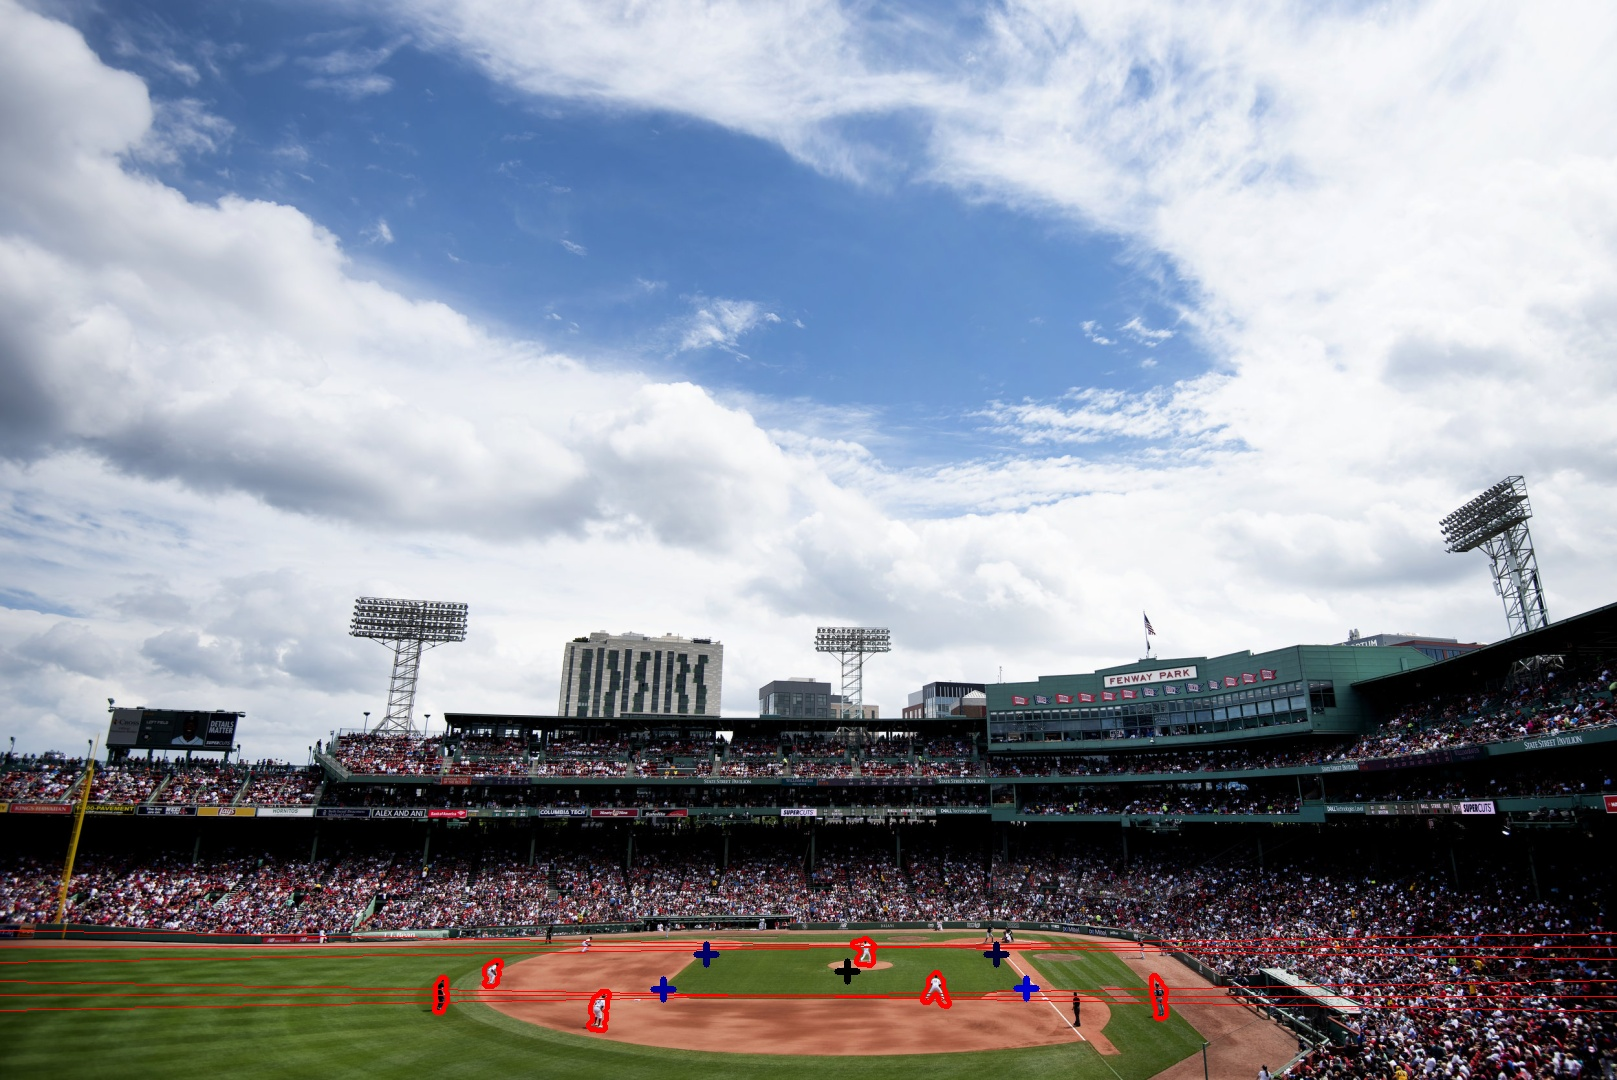
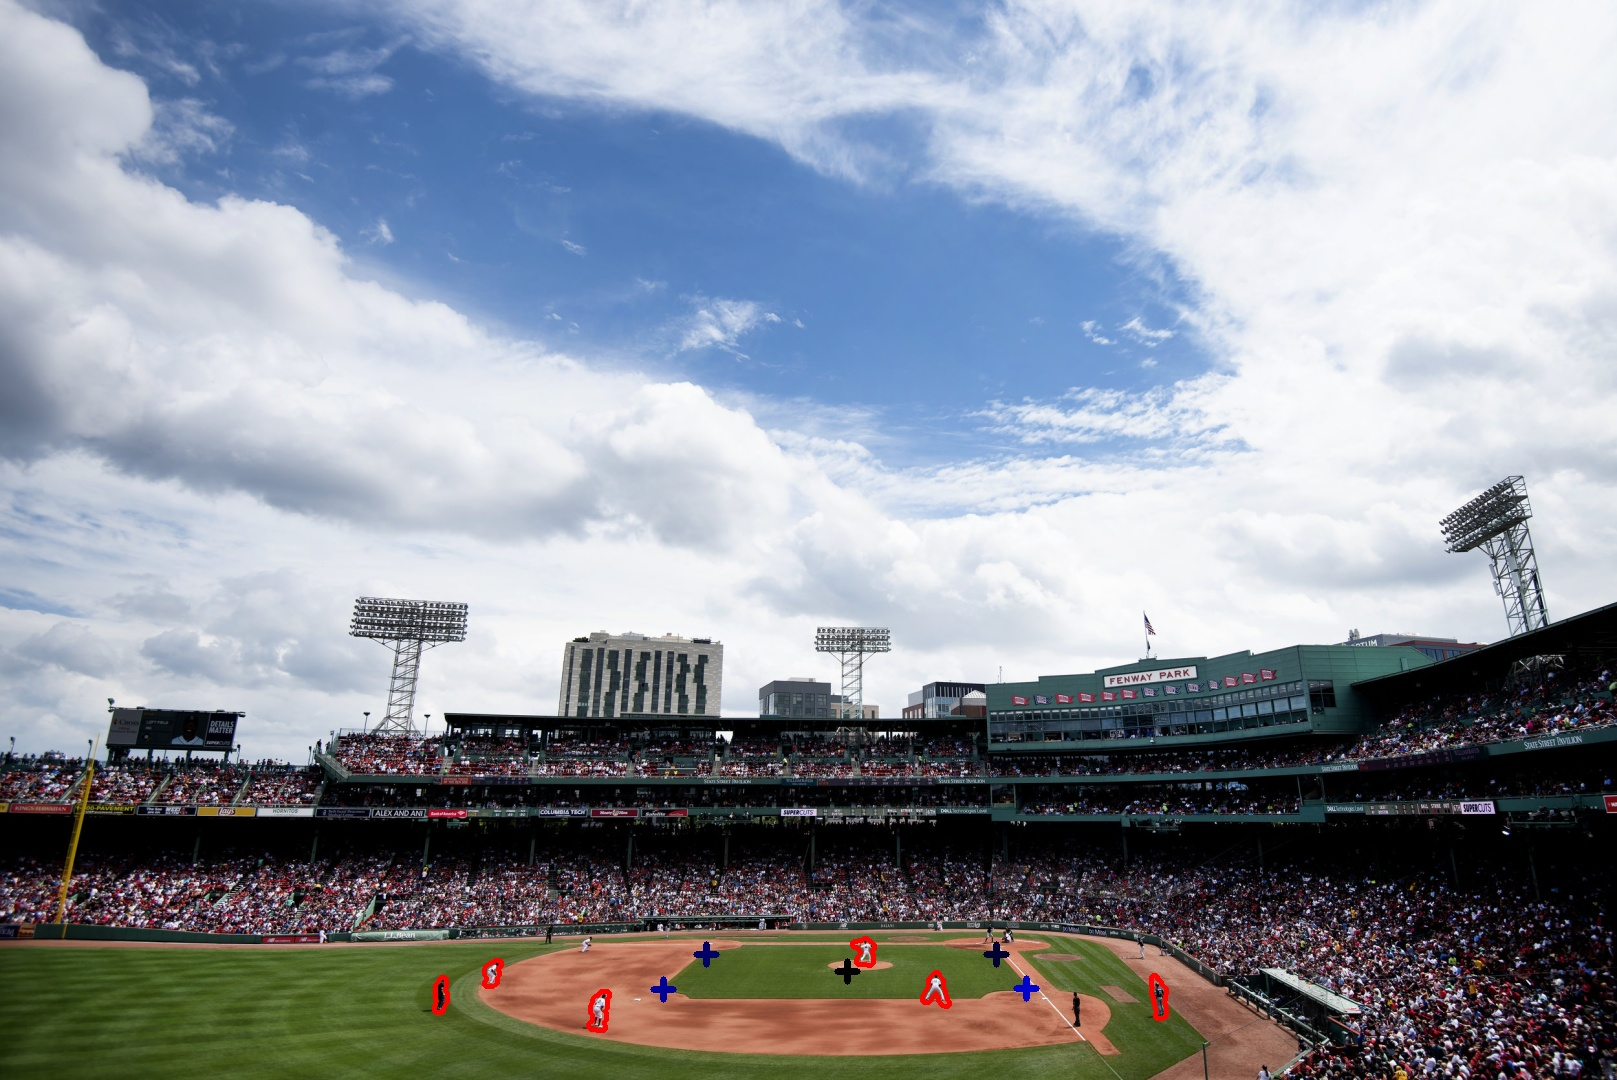
c++: add timer to time processing and finish player detection :-)

Changed region(s): [[0.0, 0.8556, 1.0, 0.9472]]

diff --git a/MLB_AR/ContentView.swift b/MLB_AR/ContentView.swift
@@ -9,7 +9,7 @@
 import SwiftUI
 
 struct ContentView: View {
-    @State var imageID = 2;
+    @State var imageID = 1
     
     var body: some View {
         ZStack {

diff --git a/MLB_AR/OpenCVWrapper/OpenCVWrapper.mm b/MLB_AR/OpenCVWrapper/OpenCVWrapper.mm
@@ -10,8 +10,44 @@
 #import "OpenCVWrapper.h"
 #import <opencv2/imgcodecs/ios.h>
 #import <UIKit/UIKit.h>
-
+#include <chrono>
+#include <ctime>
+#include <cmath>
 using namespace std;
+
+//Timer to time the image processing
+class Timer {
+    public:
+    void start() {
+        m_StartTime = chrono::system_clock::now();
+        m_bRunning = true;
+    }
+    
+    void stop() {
+        m_EndTime = chrono::system_clock::now();
+        m_bRunning = false;
+    }
+    
+    double elapsedMilliseconds() {
+        chrono::time_point<std::chrono::system_clock> endTime;
+        
+        if (m_bRunning) { endTime = chrono::system_clock::now(); }
+        else { endTime = m_EndTime; }
+        
+        return chrono::duration_cast<std::chrono::milliseconds>(endTime - m_StartTime).count();
+    }
+    
+    double elapsedSeconds() {
+        return elapsedMilliseconds() / 1000.0;
+    }
+
+    private:
+    chrono::time_point<std::chrono::system_clock> m_StartTime;
+    chrono::time_point<std::chrono::system_clock> m_EndTime;
+    bool m_bRunning = false;
+};
+
+Timer timer;
 
 @implementation OpenCVWrapper
 
@@ -20,9 +56,14 @@ using namespace std;
 }
 
 + (UIImage *)processImage:(UIImage *)image expectedHomePlateAngle:(double)expectedHomePlateAngle {
-    PlayerFinder finder = PlayerFinder();
-    return finder.processImage(image, expectedHomePlateAngle);
+    ImageProcessor processor = ImageProcessor();
+    UIImage* output = processor.processImage(image, expectedHomePlateAngle);
+    timer.stop();
+    cout << "Processing took " << timer.elapsedMilliseconds() << " milliseconds." << endl;
+    return output;
 }
+
+
 
 
 
@@ -53,11 +94,15 @@ bool sortByArea(const ContourInfo &struct1, const ContourInfo &struct2) {
 
 
 
-class PlayerFinder {
+
+
+
+//Class to run the image processing
+class ImageProcessor {
     public:
     cv::Scalar lowerGreen, upperGreen, lowerBrown, upperBrown, lowerDarkBrown, upperDarkBrown;
     
-    PlayerFinder() {
+    ImageProcessor() {
         lowerGreen = cv::Scalar(17, 50, 20);
         upperGreen = cv::Scalar(72, 255, 242);
         
@@ -68,16 +113,39 @@ class PlayerFinder {
         upperDarkBrown = cv::Scalar(10, 175, 150);
     }
     
-    UIImage* processImage(UIImage* image, double expectedHomePlateAngle) {
-        cv::Mat mat, hsv, greenMask, brownMask, darkBrownMask, fieldMask, erosion;
+    public: UIImage* processImage(UIImage* image, double expectedHomePlateAngle) {
+        /*
+         Main image processing routine
+        
+            1. Reset all central class variables to make sure the last image's processing data is cleared out
+            2. Convert color from BGR to HSV
+            3. Find all the pixels in the image that are a specific shade of green or brown to identify the field and dirt
+            4. Find the location of the bases
+            5. Find the location of the players
+            6. Calculate the ideal location of each of the players' positions
+            7. Assign each player an expected position
+            8. RETURN each players' bottom point and their corresponding position
+        */
+        
+        cv::Mat mat, resizedMat, hsv, greenMask, brownMask, darkBrownMask, fieldMask, erosion;
+        
+        UIImageToMat(image, mat);
+        
+        // Resize sample images to consistent height of 1080
+        // TODO: Remove this after algorithm testing is complete
+        int newHeight = 1080;
+        double scalePercent = newHeight / image.size.height;
+        int width = int(image.size.width * scalePercent);
+        cv::resize(mat, resizedMat, cv::Size(width, newHeight), 0, 0, cv::INTER_AREA);
+        
+        timer.start();      //NOTE: Start timer here because the image scaling takes a long time and won't be performed in the final product
         
         // Convert to HSV colorspace
-        UIImageToMat(image, mat);
-        cv::cvtColor(mat, hsv, cv::COLOR_RGB2HSV);
+        cv::cvtColor(resizedMat, hsv, cv::COLOR_RGB2HSV);
         
         // Green mask
         cv::inRange(hsv, lowerGreen, cv::Scalar(72, 255, 242), greenMask);
-        
+
         // Brown Mask
         cv::inRange(hsv, cv::Scalar(7, 80, 25), cv::Scalar(27, 255, 255), brownMask);
         
@@ -92,29 +160,41 @@ class PlayerFinder {
         vector<cv::Point> infieldContour = getPositionLocations(greenMask, expectedHomePlateAngle);
         
         // Get the location of each of the actual players on the field
-        getPlayerContourLocations(fieldMask);
+        vector<vector<cv::Point>> playerContours = getPlayerContourLocations(fieldMask);
         
-        vector<vector<cv::Point>> contoursToDraw;
-        contoursToDraw.push_back(infieldContour);
+        // Draw contours on image for DEBUG
+        playerContours.push_back(infieldContour);
+        cv::drawContours(resizedMat, playerContours, -1, cv::Scalar(255, 255, 0), 3);
         
-        cv::drawContours(mat, contoursToDraw, -1, cv::Scalar(255, 255, 0), 10);
-        
-        //Convert the Mat image to a UIImage
-        UIImage *result = MatToUIImage(mat);
+        // Convert the Mat image to a UIImage
+        UIImage *result = MatToUIImage(resizedMat);
         
         return result;
     }
     
-    vector<cv::Point> getPositionLocations(cv::Mat greenMask, double expectedHomePlateAngle) {
+    private: vector<cv::Point> getPositionLocations(cv::Mat greenMask, double expectedHomePlateAngle) {
+        /*
+         Sub-processing routine to find the location of each of the game positions
+
+            1. Erode the image to get rid of small impurities
+            2. Find all contours that are formed by the green mask
+            3. Choose the contours that are between a certain bounding box area
+            4. Choose the contours that have a certain (height/width) ratio, the smallest bounding box width, and an exact area above a certain threshold
+                    --> the expected infield outline
+            5. Fit a quadrilateral around the infield grass
+            6. Compute ideal position locations based on the infield corners
+            7. RETURN the image locations corresponding the positions in the following order:
+                    (pitcher, home, first, second, third, shortstop, left field, center field, right field)
+        */
+        
         cv::Mat erosion;
         
         // Erode the image to remove impurities
-        cv::erode(greenMask, erosion, getStructuringElement(cv::CHAIN_APPROX_SIMPLE, cv::Size(4, 4)));
-
+        cv::erode(greenMask, erosion, getStructuringElement(cv::MORPH_RECT, cv::Size(5, 4)));
         
         // Find all contours in the image
         vector<vector<cv::Point>> contours;     // contains the array of contours
-        vector<cv::Vec4i> hierarchy;            // don't actually use this at all
+        vector<cv::Vec4i> hierarchy;            // don't actually use this
         cv::findContours(erosion, contours, hierarchy, cv::RETR_TREE, cv::CHAIN_APPROX_SIMPLE);
                 
         // Only keep the contours which have a certain bounding box area
@@ -125,27 +205,21 @@ class PlayerFinder {
             double area = rect.height * rect.width;
             
             if (area > 18500 and area < 2000000) {
-                ContourInfo info;
-                info.contour = c;
-                info.x = rect.x;
-                info.y = rect.y;
-                info.width = rect.width;
-                info.height = rect.height;
-                infieldContours.push_back(info);
+                ContourInfo cnt;
+                cnt.contour = c;
+                cnt.x = rect.y + ( rect.width / 2);
+                cnt.y = rect.y + ( rect.height / 2);
+                cnt.width = rect.width;
+                cnt.height = rect.height;
+                infieldContours.push_back(cnt);
             }
         }
-        
-        ContourInfo infield = ContourInfo();
-        infield.x = -1;
         
         // Sort the list of contours from biggest area to smallest
         sort(infieldContours.begin(), infieldContours.end(), sortByArea);
         
-        // DEBUG
-        for (ContourInfo c : infieldContours) {
-            c.printDescription();
-        }
-        cout << "\n";
+        ContourInfo infield = ContourInfo();
+        infield.x = -1;
         
         for (ContourInfo cnt : infieldContours) {
             double ratio = cnt.height / cnt.width;
@@ -155,7 +229,7 @@ class PlayerFinder {
             }
         }
         
-        if (infield.x == -1) {  }
+        if (infield.x == -1) {  }       //TODO: indicate the infield was not found
         
         vector<cv::Point> infieldHull;
         cv::convexHull(infield.contour, infieldHull);
@@ -163,8 +237,103 @@ class PlayerFinder {
         return infieldHull;
     }
     
-    void getPlayerContourLocations(cv::Mat fieldMask) {
+    private: vector<vector<cv::Point>> getPlayerContourLocations(cv::Mat fieldMask) {
+        /*
+         Sub-processing routine to find the location of the players on the field
+
+            1. Erode the image to get rid of small impurities
+            2. Find all contours that are formed by the green and brown masks
+            3. Choose the contours that are between a certain bounding box area
+            4. Choose the contours that have a certain (height/width) ratio and actually are located on the field
+            5. RETURN an array of the players' center pixel location
+         */
         
+        cv::Mat erosion;
+        
+        // Erode the image to remove impurities
+        cv::erode(fieldMask, erosion, getStructuringElement(cv::MORPH_RECT, cv::Size(5, 5)));
+        
+        // Find all contours in the image
+        vector<vector<cv::Point>> contours;     // contains the array of contours
+        vector<cv::Vec4i> hierarchy;            // don't actually use this
+        cv::findContours(erosion, contours, hierarchy, cv::RETR_TREE, cv::CHAIN_APPROX_SIMPLE);
+        
+        // Only keep the contours which have a certain bounding box area
+        vector<ContourInfo> playerContours;
+        ContourInfo field = ContourInfo();
+        field.x = -1;                           // indicates that the variable is empty
+        
+        for (vector<cv::Point> c : contours) {
+            cv::Rect rect = cv::boundingRect(c);
+            double area = rect.height * rect.width;
+            
+            if (area > 270 and area < 2000) {
+                ContourInfo cnt;
+                cnt.contour = c;
+                cnt.x = rect.x + (rect.width / 2);
+                cnt.y = rect.y + ( rect.height / 2);
+                cnt.width = rect.width;
+                cnt.height = rect.height;
+                playerContours.push_back(cnt);
+            } else if (field.x == -1 or (field.width * field.height) < area) {
+                field.contour = c;
+                field.x = rect.x + (rect.width / 2);
+                field.y = rect.y + ( rect.height / 2);
+                field.width = rect.width;
+                field.height = rect.height;
+            }
+        }
+                
+        vector<vector<cv::Point>> players;
+        
+        if (field.x == -1) { return players; }
+        
+        vector<ContourInfo> topPlayers;
+        
+        for (ContourInfo cnt : playerContours) {
+            double ratio = cnt.height / cnt.width;
+            
+            if (ratio > 0.8 and ratio < 3.0) {
+                topPlayers.push_back(cnt);
+            }
+        }
+                
+        if (topPlayers.size() == 0) { return players; }
+
+        for (ContourInfo cnt : topPlayers) {
+            if (isCandidatePlayerOnField(cnt, field)) {
+                players.push_back(cnt.contour);
+            }
+        }
+        
+        return players;
+    }
+    
+    private: bool isCandidatePlayerOnField(ContourInfo cnt, ContourInfo field) {
+        /*
+         Helper method to check if a candidate player is located on the field
+
+             1. Check if the candidate player's center point is within the field's bounding box
+                 (much faster than the opencv method, so if it isn't in the bounding box it's a quick reliable way to return false)
+             2. Check if the center point is actually inside the field contour
+             3. RETURN true if the result is positive
+         */
+        
+        int fieldWidth = int(field.width / 2);
+        int fieldHeight = int(field.height / 2);
+        
+        if (cnt.x >= field.x + fieldWidth or cnt.x <= field.x - fieldWidth or
+            cnt.y >= field.y + fieldHeight or cnt.y <= field.y - fieldHeight) {
+            return false;
+        }
+                
+        double distance = cv::pointPolygonTest(field.contour, cv::Point(cnt.x, cnt.y), true);
+        
+        if (distance <= 0.0) {        //outside of contour or on edge of contour
+            return false;
+        }
+        
+        return true;
     }
 };
 

diff --git a/TestPersonDetection/personDetectionTesting.py b/TestPersonDetection/personDetectionTesting.py
@@ -168,7 +168,7 @@ class PlayerFinder(object):
         self.positions.append(self.infield_cnrs[first])
         self.positions.append(self.infield_cnrs[second])
         self.positions.append(self.infield_cnrs[third])
-        print(self.positions)
+        #print(self.positions)
 
         return image
             
@@ -220,6 +220,8 @@ class PlayerFinder(object):
         for candidate in self.top_players:
             if self.isCandidatePlayerOnField(candidate['center'], field):
                 self.players.append(candidate['contour'])
+        
+        print("#: " + str(len(self.players)))
 
         self.top_players = [x['contour'] for x in self.top_players]
 
@@ -236,7 +238,7 @@ class PlayerFinder(object):
         height = int( fieldInfo['widths'][1] / 2 )
         centerx = fieldInfo['center'][0]
         centery = fieldInfo['center'][1]
-
+        
         #if center of candidate player is not even in the field's bounding box, definitely is not inside the contour
         if candidateCenterPt[0] >= centerx + width or candidateCenterPt[0] <= centerx - width or candidateCenterPt[1] <= centery - height and candidateCenterPt[1] >= centery + height:
             return False
